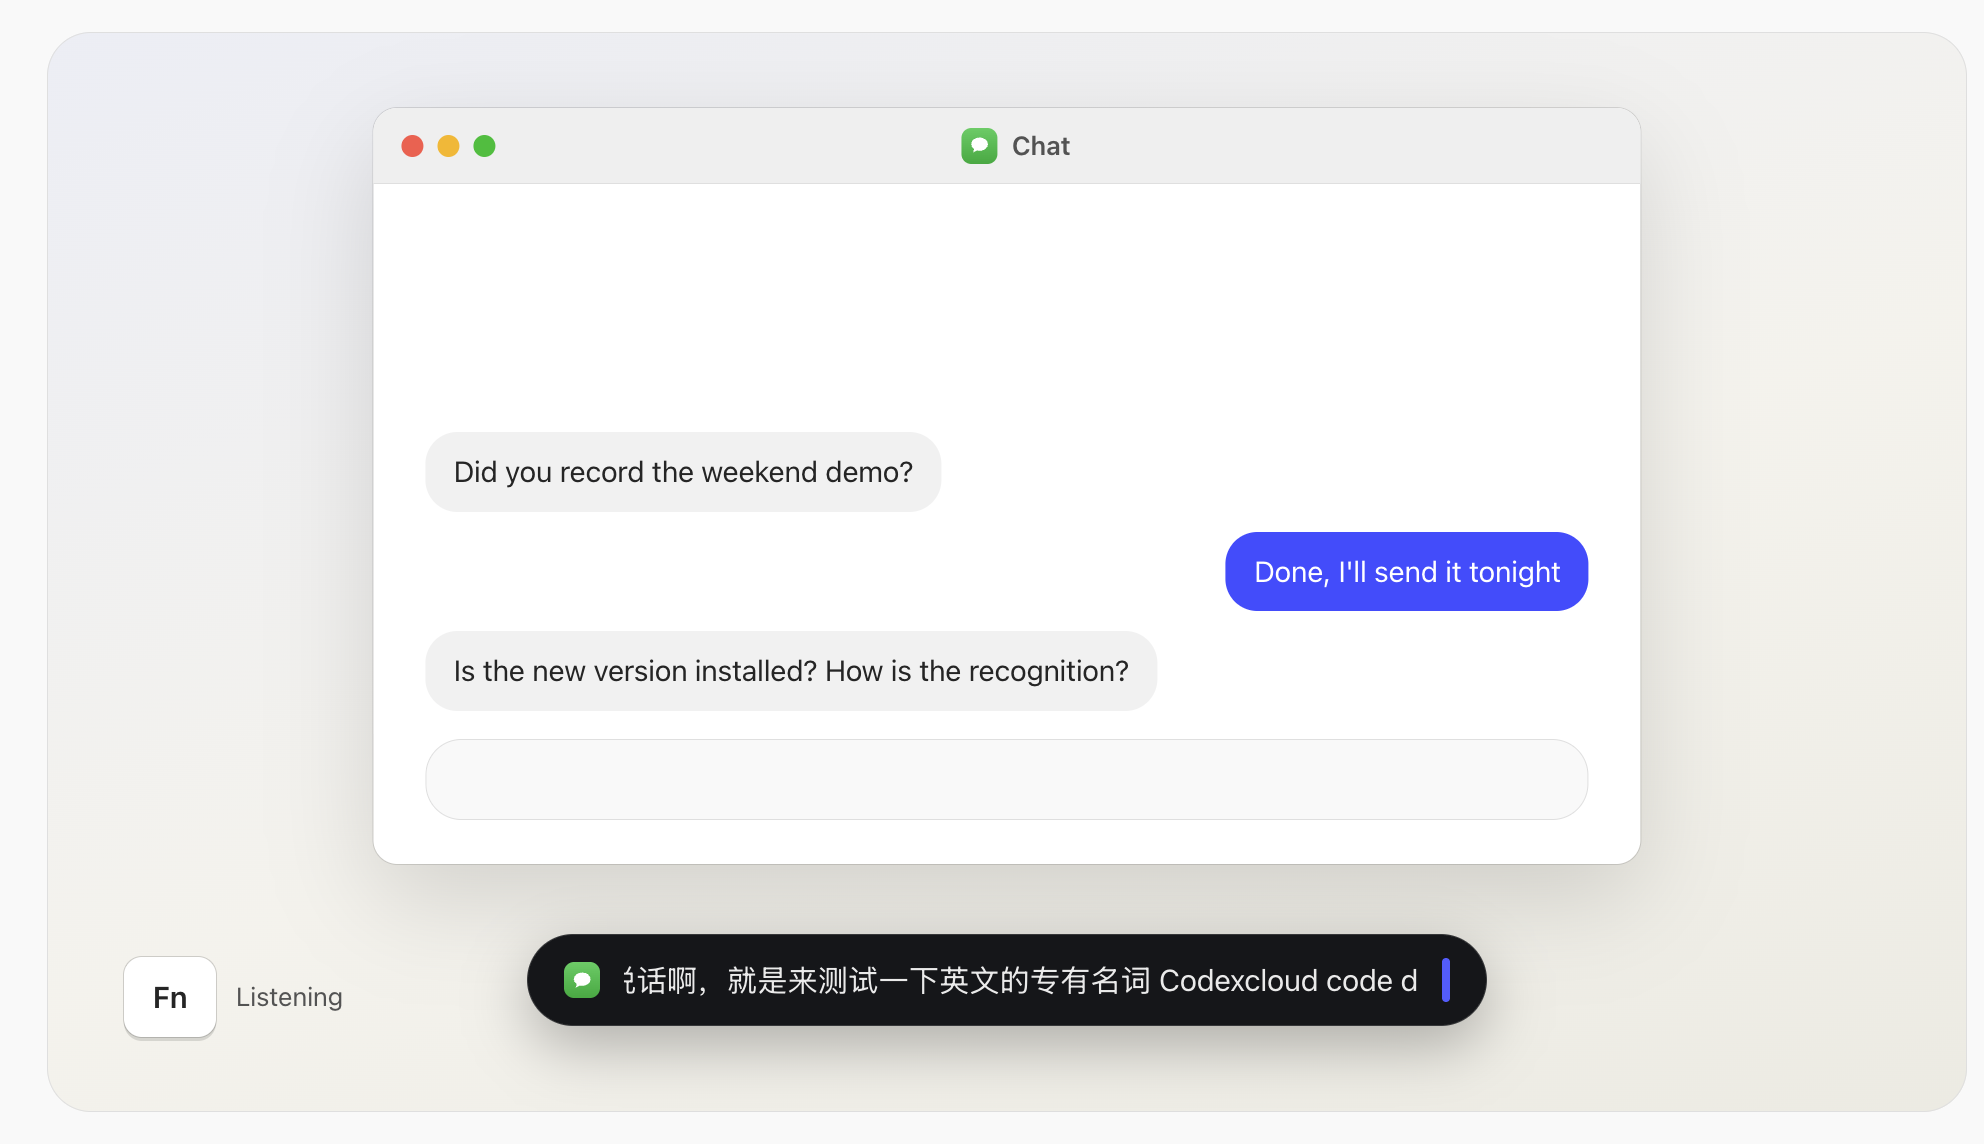
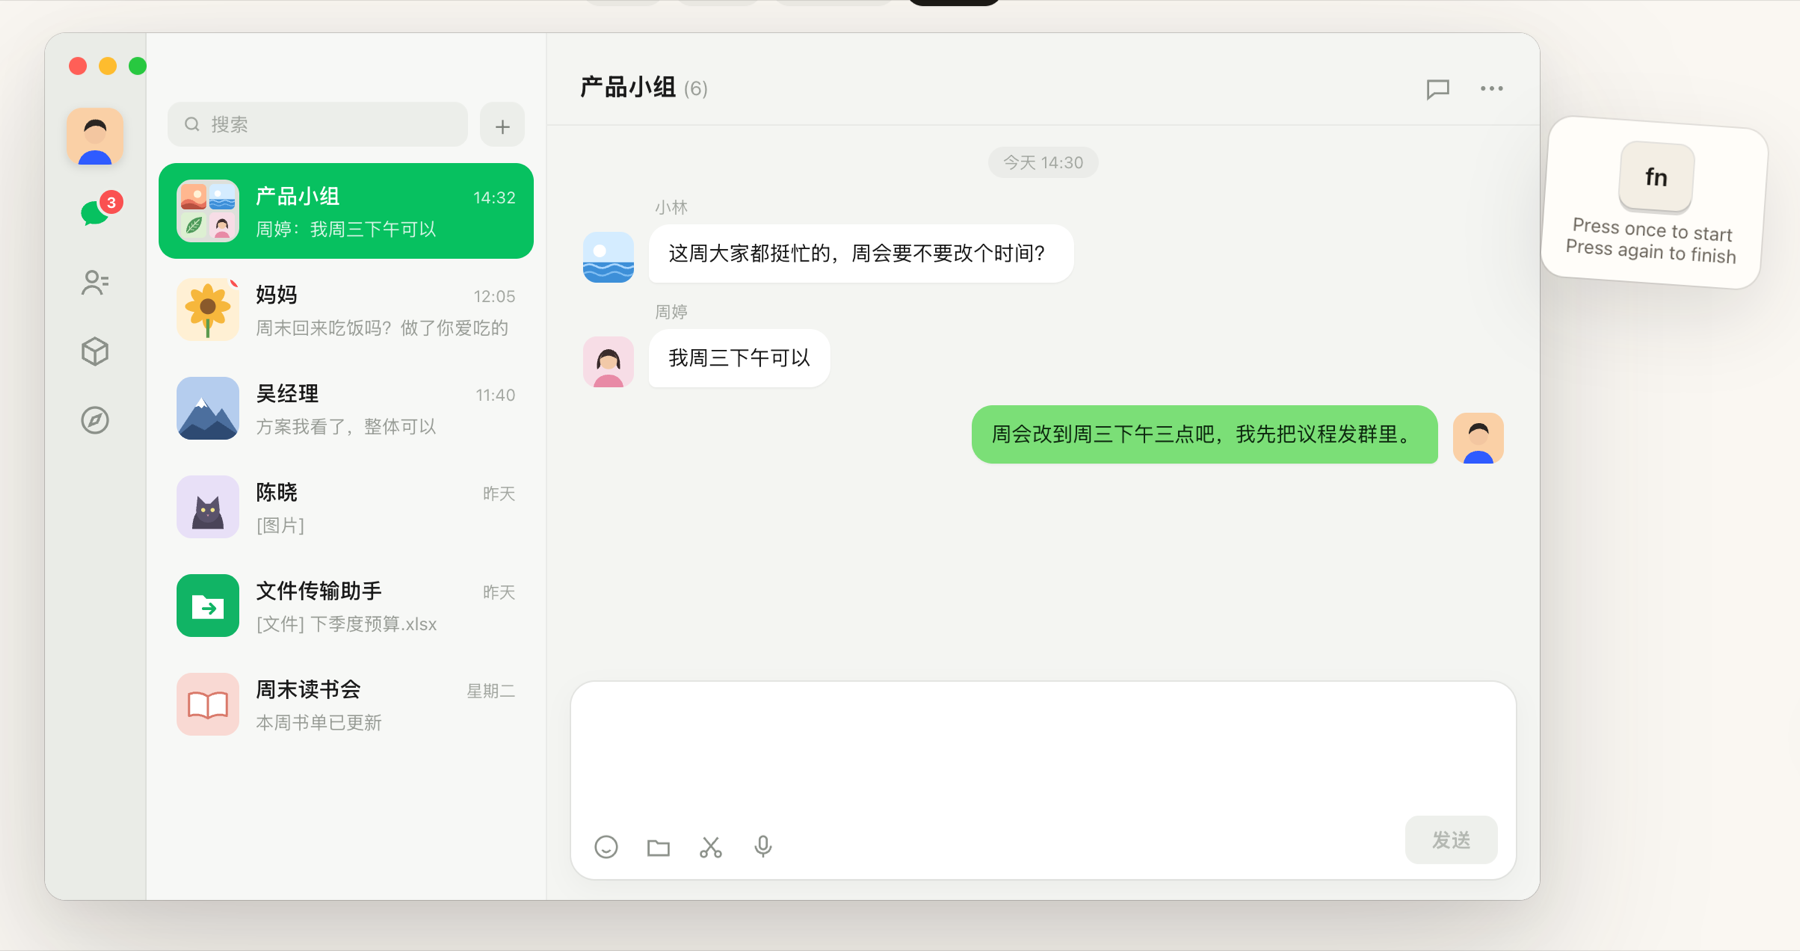
docs: align public copy with the website
- README.md and README.en.md follow site/src/data/home.ts: everyday office use
  (WeChat, email, weekly reports), three-step setup, features, pricing and
  privacy in the website's words.
- README screenshots are taken from the current website; the old dictionary and
  accuracy images are removed.
- PRODUCT.md describes everyday office workers and names home.ts as the
  reference wording; DESIGN.md describes the warm paper website and the native
  app palette.
- The brand voice guide lists current feature names and retires old ones.

diff --git a/README.en.md b/README.en.md
@@ -9,65 +9,76 @@
 </p>
 
 <p align="center">
-  Press a shortcut and talk, press it again, and the text lands at your cursor.<br>
-  Mix Chinese and English freely, and proper nouns come out right.
+  Reply on WeChat, write an email, or put together a weekly report: press a shortcut and talk.<br>
+  Filler words are removed, corrections are applied, and punctuation and paragraphs are added for you.
 </p>
 
 <p align="center">
-  <a href="https://updates.lerroapp.com/download/macos/latest"><strong>Download for macOS</strong></a>
+  <a href="https://updates.lerroapp.com/download/macos/latest"><strong>Download Lerro for Mac</strong></a>
   · <a href="https://lerroapp.com/en">Website</a>
   · <a href="https://lerroapp.com/en/changelog">Changelog</a>
 </p>
 
 <p align="center">
-  Free and open source · macOS 26 · Apple silicon
+  macOS 26 · Apple silicon · Free, open source, no sign-up
 </p>
 
-![Lerro dictating into a chat window](site/public/readme/en-demo.png)
+![Replying in WeChat: press fn, speak, and Lerro writes the tidied text into the message box](site/public/readme/en-demo.png)
 
-## How it works
+## Three steps, then just talk
 
-1. Press your shortcut (Fn by default) and speak. A small capsule at the bottom
-   of the screen shows the live transcript.
-2. Press the shortcut again. Lerro writes the text into the field you were
-   typing in.
-3. If you switched away before it finished, Lerro stops, keeps the text on the
-   clipboard, and offers to paste it.
+1. Download and drag **Lerro.app** to Applications.
+2. Open it and allow two permissions: Microphone lets it hear you, Accessibility
+   lets it type the text for you.
+3. Press the shortcut (Fn by default) and start talking. Press again to finish,
+   and the text appears at your cursor.
 
-Apple's on-device speech recognition does the listening. With AI cleanup turned
-on, DeepSeek fixes misheard words using your dictionary, removes fillers, and
-adds punctuation.
+Wherever your cursor is, the text goes there: WeChat, Feishu, DingTalk, WeCom,
+Mail, Notes, Word, WPS, your browser, ChatGPT and more. Speaking is 4x faster
+than typing.
 
-![Raw recognition compared with what Lerro wrote](site/public/readme/en-accuracy.png)
+It works right after install and is completely free. Turn on AI cleanup if you
+want smoother text.
 
-## A dictionary that learns
+## It remembers how you talk
 
-Names of people, companies, and projects are hard to recognize the first time.
-When you correct a word Lerro wrote, the AI decides whether it was a
-recognition error and adds it to the dictionary.
+![Remembers names and terms, a different tone in each app, corrections mid-sentence, Chinese to English, and the menu bar](site/public/readme/en-features.png)
 
-![Auto-learned dictionary](site/public/readme/en-dictionary.png)
+- **Names and terms you use often are remembered.** A colleague's name, your
+  company's product, or industry jargon may come out wrong the first time. After
+  the AI corrects one twice, Lerro remembers it. You don't have to add anything
+  by hand.
+- **A different tone in each app.** Set one instruction per app. Switch apps and
+  the tone switches with you, for example casual in WeChat and full sentences in
+  Mail.
+- **Correct yourself mid-sentence.** Say "no, wait" or "change that to", and only
+  your final meaning is kept.
+- **Speak Chinese, write English.** Use a different shortcut, and what you say in
+  Chinese is written in English.
+- **Handy in the menu bar.** Last sentence didn't land? Copy it from the menu bar
+  in one click.
 
-Each app can also have its own tone, for example casual in chat and complete
-sentences in email.
+## Pricing
 
-## AI cleanup with your own DeepSeek account
+- **Free:** Apple's speech recognition on your Mac, so what you say is what's
+  written. Works in every app. No sign-up, no usage limit.
+- **With AI cleanup:** removes filler words, fixes typos, adds punctuation,
+  changes tone per app, translates Chinese to English, and remembers words you
+  use often. It uses your own DeepSeek account and charges by usage: about ¥1
+  per 1,000 uses, or about ¥2 a month at a hundred or so dictations a day. You
+  can see your balance and spending in Lerro.
 
-Lerro has no subscription. AI cleanup supports only
-[DeepSeek](https://platform.deepseek.com) and uses your own account. The app
-walks you through three steps: open the site, top up, then create a key and
-paste it. Once connected, Lerro shows your account balance. At a hundred or so
-dictations a day, it costs about ¥2 a month.
-
-Without AI cleanup, Lerro still works: Apple recognition runs on your Mac for
-free and the transcript is written as is.
+Lerro itself has no membership or subscription. The app has a three-step guide:
+open the DeepSeek site, top up, then create a key and paste it.
 
 ## Privacy
 
-- No account and no telemetry.
-- Speech is recognized on your Mac. With AI cleanup on, only the recognized text
-  goes to DeepSeek.
-- Recordings are not saved unless you turn it on.
+- Apple recognizes your speech on this Mac, and recordings are not saved by
+  default.
+- No account needed. Lerro has no server collecting your data.
+- With AI cleanup on, only text is sent, and only to your own DeepSeek account.
+  You can see what was sent in History.
+- The code is open source, so anyone can inspect it.
 
 Details are in the [Privacy Policy](PRIVACY.md).
 
@@ -75,10 +86,10 @@ Details are in the [Privacy Policy](PRIVACY.md).
 
 1. [Download the latest signed and notarized build](https://updates.lerroapp.com/download/macos/latest).
 2. Move **Lerro.app** to Applications and open it.
-3. Follow the setup to grant Microphone and Accessibility.
+3. Follow the setup to allow Microphone and Accessibility.
 
-Requires an Apple silicon Mac with macOS 26 or later. Lerro updates itself
-from inside the app.
+Requires an Apple silicon Mac (M1 or later) with macOS 26 or later. Lerro updates
+itself from inside the app.
 
 ## Build from source
 

diff --git a/README.md b/README.md
@@ -9,61 +9,65 @@
 </p>
 
 <p align="center">
-  按一下快捷键说话，再按一下，文字写进光标所在的地方。<br>
-  中英文混着说，专有名词也能写对。
+  回微信、写邮件、整理周报，按一下快捷键说就行。<br>
+  口头禅自动去掉，说错的地方自动改好，标点和分段也帮你加上。
 </p>
 
 <p align="center">
-  <a href="https://updates.lerroapp.com/download/macos/latest"><strong>下载 macOS 版</strong></a>
+  <a href="https://updates.lerroapp.com/download/macos/latest"><strong>免费下载 Mac 版</strong></a>
   · <a href="https://lerroapp.com">官网</a>
   · <a href="https://lerroapp.com/changelog">更新日志</a>
 </p>
 
 <p align="center">
-  免费开源 · macOS 26 · Apple 芯片
+  macOS 26 · Apple 芯片 · 免费、开源、不用注册
 </p>
 
-![Lerro 正在往聊天窗口里听写](site/public/readme/zh-demo.png)
+![在微信里回消息：按一下 fn 说话，Lerro 整理好写进输入框](site/public/readme/zh-demo.png)
 
-## 怎么用
+## 三步，开口就能用
 
-1. 按下快捷键（默认 Fn）开始说话，屏幕下方的小胶囊会实时显示识别的文字。
-2. 再按一下快捷键，Lerro 把文字写进你刚才所在的输入框。
-3. 如果写入前你切走了，Lerro 会停下来，把结果留在剪贴板里，提示你粘贴。
+1. 下载，把 **Lerro.app** 拖进「应用程序」。
+2. 打开，允许两个权限：麦克风用来听你说话，辅助功能用来把字写进去。
+3. 按一下快捷键（默认 Fn）开始说，再按一下结束，字就写在光标那里。
 
-语音由苹果在本机识别。打开 AI 整理后，DeepSeek 会按词典改掉认错的词，去掉“嗯”“呃”，补好标点。
+光标在哪儿，字就写到哪儿：微信、飞书、钉钉、企业微信、邮件、备忘录、Word、WPS、浏览器、ChatGPT 都能用。说话比打字快 4 倍。
 
-![识别原文和 Lerro 写进去的文字对比](site/public/readme/zh-accuracy.png)
+装好就能用，完全免费。想让文字更通顺，再开一下 AI 整理。
 
-## 词典会学
+## 越用越顺手
 
-人名、公司名、项目名，苹果识别很难一次认对。你改掉 Lerro 写错的词，AI 判断是认错了，就会加进词典。
+![常说的词会自己记住、按 App 换口吻、说错了直接改口、说中文写英文、菜单栏随手可用](site/public/readme/zh-features.png)
 
-![自动学习的词典](site/public/readme/zh-dictionary.png)
+- **常说的名字和词，会自己记住**：同事的名字、公司的产品、行业里的说法，第一次可能写错。AI 改对两次以后，Lerro 就记下来了，不用你手动加。
+- **在哪个 App，用哪种口吻**：给每个 App 设一句要求，切过去自动换。比如微信轻松一点，邮件用完整句子。
+- **说错了，直接改口**：说「不对」「改成」，只留下你最后的意思。
+- **说中文，写英文**：换一个快捷键，说中文直接写出英文。
+- **菜单栏里随手可用**：上一句没写进去？在菜单栏里一键复制。
 
-每个 App 还可以设置自己的语气，比如聊天里口语一些，邮件里用完整句子。
+## 价格
 
-## 用你自己的 DeepSeek 账号做 AI 整理
+- **基础版免费**：苹果本机识别，说什么写什么；所有 App 里都能用；不用注册，没有次数限制。
+- **开启 AI 整理**：去掉口头禅、自动改错字、加标点，按 App 换口吻，中译英，常说的词会自己记住。用你自己的 DeepSeek 账号按用量付费，约 1000 次 1 块钱；每天说一百多次，一个月 2 块钱左右，余额和花费在 Lerro 里都看得到。
 
-Lerro 不收订阅费，AI 整理只支持 [DeepSeek](https://platform.deepseek.com)，走你自己的账号。App 里有三步指引：打开网站、充值、创建 Key 并粘贴，连上后会直接显示账户余额。每天说一百多次，一个月 2 块钱左右。
-
-不开 AI 整理也能用：苹果本机识别，免费，识别结果直接写入。
+Lerro 本身没有会员和订阅。App 里有三步指引：打开 DeepSeek 官网、充值、创建并粘贴一串密钥，照着点就行。
 
 ## 隐私
 
-- 不用注册账号，没有数据上报。
-- 语音在本机识别。打开 AI 整理时，只有识别出的文字会发给 DeepSeek。
-- 录音默认不保存，需要你在设置里打开。
+- 语音由苹果在本机识别，录音默认不保存。
+- 不用注册账号，Lerro 没有服务器收你的数据。
+- 开了 AI 整理，只有文字会发给你自己的 DeepSeek 账号，每次发了什么都能在历史里看到。
+- 代码开源，任何人都可以检查。
 
 完整说明见[隐私政策](PRIVACY.md)。
 
 ## 安装
 
 1. [下载最新的已签名、已公证版本](https://updates.lerroapp.com/download/macos/latest)。
-2. 把 **Lerro.app** 拖到“应用程序”并打开。
-3. 按引导授权麦克风和辅助功能。
+2. 把 **Lerro.app** 拖到「应用程序」并打开。
+3. 按引导允许麦克风和辅助功能。
 
-需要 Apple 芯片的 Mac 和 macOS 26 或更新版本。之后的版本在 app 里就能更新。
+需要 Apple 芯片（M1 及以后）的 Mac 和 macOS 26 或更新版本。之后的版本在 App 里就能更新。
 
 ## 从源码构建
 

diff --git a/PRODUCT.md b/PRODUCT.md
@@ -6,11 +6,13 @@ brand
 
 ## Users
 
-Lerro is for Apple silicon Mac users on macOS 26 who write throughout the day
-and want speech to become correct, editable text at the active cursor. Many mix
-Chinese and English in one sentence. They value speed, native macOS behavior,
-transparent permissions, and paying only for the AI they use through their own
-DeepSeek account.
+Lerro is for everyday office workers on an Apple silicon Mac with macOS 26 who
+type all day: replying in WeChat, Feishu or DingTalk, writing email to a manager,
+putting together a weekly report in Notes or Word. They are not developers and
+should not need to learn any settings. Many mix Chinese and English in one
+sentence and use names and terms specific to their company. They want it free,
+quick to set up, and private, and they pay a few yuan a month for AI cleanup
+through their own DeepSeek account only if they turn it on.
 
 ## Product purpose
 
@@ -19,14 +21,15 @@ cursor. A user presses a shortcut, speaks, presses it again, and keeps writing.
 There is no account, subscription, or hosted Lerro service.
 
 - Apple `SpeechTranscriber` transcribes live, with the microphone opening first.
-- Optional AI cleanup through the user's own DeepSeek API key
-  fixes misheard words, polishes, and translates, using a personal dictionary and
-  per-app tone.
+- Optional AI cleanup through the user's own DeepSeek account removes filler
+  words, fixes misheard words, adds punctuation and paragraphs, keeps only the
+  final meaning when the user corrects themselves, translates Chinese to English,
+  and follows a per-app tone. Names and terms the AI corrects twice are remembered
+  automatically.
 - Delivery goes to the exact target field through the clipboard and Command-V.
   If the target changed, the text stays on the clipboard with a Copy again card.
-- Corrections the user makes after a write can become dictionary entries.
 - Lerro has no analytics or telemetry. The network is used for Apple's Speech
-  language assets, the user's own AI endpoint, and signed update checks.
+  language assets, the user's own DeepSeek account, and signed update checks.
 
 Lerro is open source (Apache-2.0) and in maintenance mode.
 
@@ -46,11 +49,14 @@ utility. Claims state exactly which paths stay local and when the network is use
 ## Design principles
 
 - Show the shipped Mac app and its real states.
-- Lead with the voice-to-cursor outcome.
-- Make local, optional-network, and bring-your-own-key boundaries clear.
+- Lead with the voice-to-cursor outcome in everyday work: WeChat, email, weekly
+  reports.
+- Make local, optional-network, and own-DeepSeek-account boundaries clear.
 - Keep each page compact and useful for a download decision.
 - Keep one product story across the website, README, metadata, screenshots, and
-  release notes. Product claims match [`PRIVACY.md`](PRIVACY.md).
+  release notes. The website copy in
+  [`site/src/data/home.ts`](site/src/data/home.ts) is the reference wording;
+  product claims match [`PRIVACY.md`](PRIVACY.md).
 
 ## Accessibility
 

diff --git a/DESIGN.md b/DESIGN.md
@@ -1,7 +1,8 @@
 # Lerro design
 
-Lerro uses one visual language across the macOS app, website, screenshots, and
-release pages: native, quiet, and precise. Brand sources and usage rules are in
+Lerro is native, quiet, and precise everywhere. The macOS app uses native
+adaptive grays; the website uses a warm paper palette. Both share the cursor-L
+mark, the ink-blue accent and the ink-black capsule HUD. Brand sources and usage rules are in
 [`Brand/`](Brand/README.md).
 
 ## Brand
@@ -34,12 +35,18 @@ release pages: native, quiet, and precise. Brand sources and usage rules are in
 ## Website
 
 - Astro static site in [`site/`](site/README.md), Chinese at `/` and English at `/en`.
-- Tokens in `site/src/styles/global.css` repeat the app palette: canvas `#FAFAFA`,
-  ink `#292929`, accent `#2F5BFF`, with dark-mode equivalents.
-- The hero and feature sections recreate the app UI and HUD in HTML using the same
-  tokens, so screenshots and live demos stay consistent with the shipped app.
-- Pill buttons, 0.5 px hairline borders, soft shadows, and `prefers-reduced-motion`
-  and `prefers-color-scheme` support.
+- Warm paper palette in `site/src/styles/global.css`: page `#FAF7F2` (dark
+  `#151412`), surfaces `#FFFDF9` (dark `#1D1B18`), ink `#1C1A16` (dark `#F1EDE6`),
+  one ink-blue accent `#2F5BFF` (dark `#6B8BFF`). Light and dark follow the system;
+  there is no theme toggle.
+- Headings use Noto Serif SC; body text uses the system sans. Primary buttons are
+  near-black pills (cream in dark mode); secondary actions are underlined text links.
+- No gradients, glows or blurred colour spots. Depth comes from hairlines, flat
+  surfaces and edge shadows.
+- The story and feature sections recreate the app UI and HUD in HTML, so
+  screenshots and live demos stay consistent with the shipped app. The demo
+  windows (WeChat, Mail, Notes) keep their real app colours.
+- `prefers-reduced-motion` support.
 
 ## Product truth
 

diff --git a/Brand/guidelines/motion.md b/Brand/guidelines/motion.md
@@ -48,7 +48,7 @@ HUD 的形状、状态和文案由
 - 所有状态在同一个 40 pt 高的胶囊内完成，宽度以 spring 变化，最大 480 pt。
 - 录音态显示墨水蓝光标与 9 根音量波形；实时文字单行显示，旧文字从左侧淡出，光标跟随
   文字末尾。
-- 处理中写「AI 润色中…」或「翻译中…」。
+- 处理中写「AI 整理中…」或「翻译中…」。
 - Command-V commit point 之后 HUD 立即淡出。
 - AI 失败退回原文时显示橙色圆点和「已写入原文 · AI 未响应」，持续 2 秒。
 - 开始、完成和错误全程保持静音，HUD 视觉状态与 VoiceOver 公告承担反馈。
